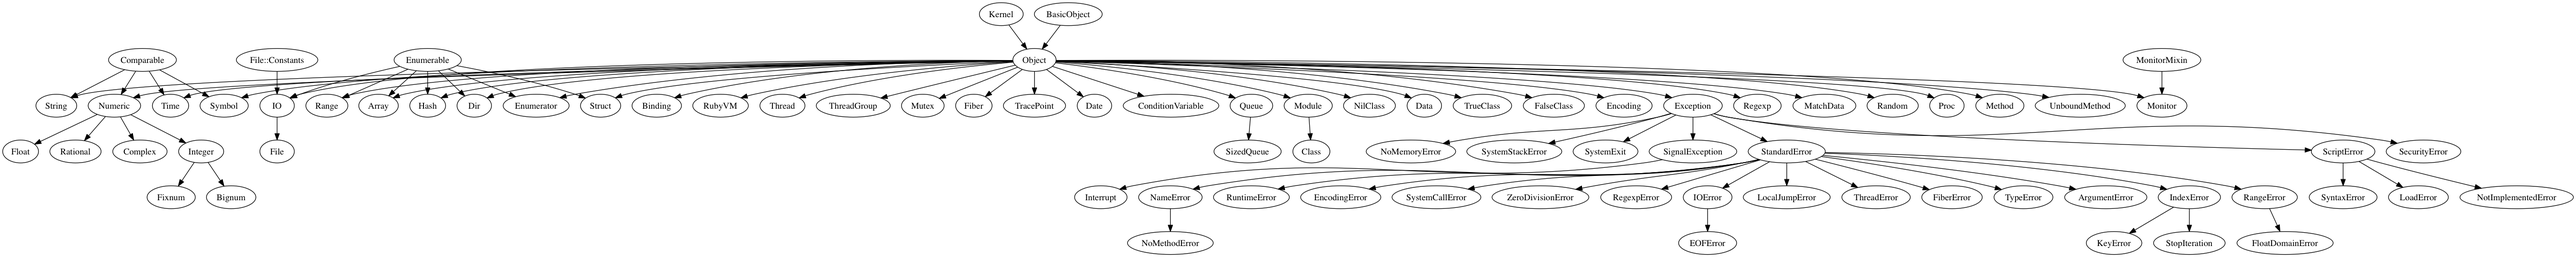
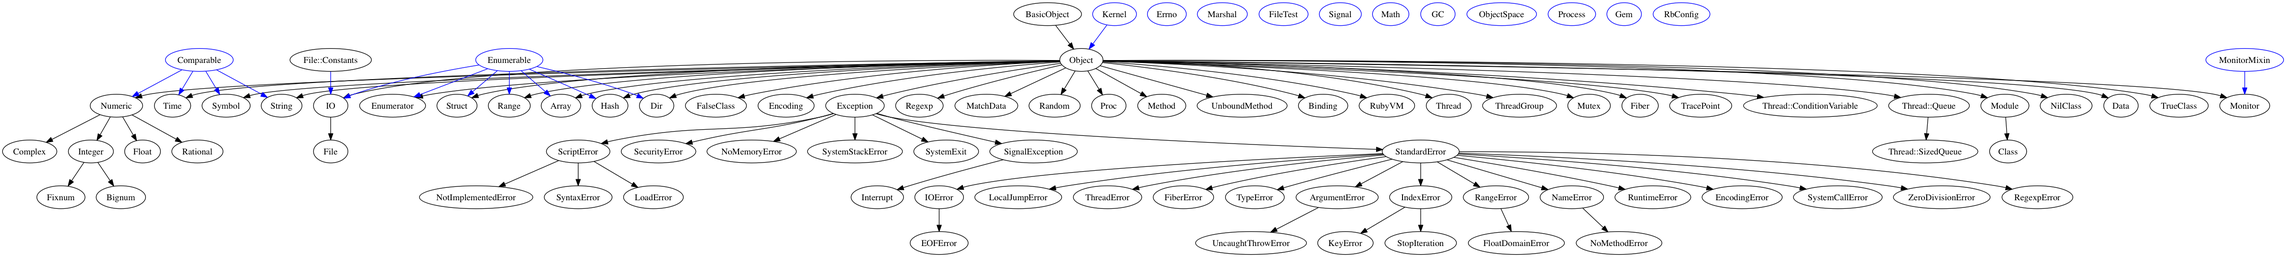
first version

diff --git a/objects.rb b/objects.rb
@@ -1,23 +1,51 @@
-constants = Object.constants
-  .map { |name| Object.const_get(name) }
-  .select { |object| object.respond_to?(:ancestors) }
-
-ancestors = {}
-
-constants.each do |object|
-  ancestors[object] = object.ancestors - [object]
+def list_objects
+  Object.constants.map { |name| Object.const_get(name) }
 end
 
-relations = []
+def try(object, method, default = nil)
+  object.respond_to?(method) ? object.send(method) : default
+end
 
-ancestors.each do |object, object_ancestors|
-  ancestors_ancestors = object_ancestors.flat_map { |ancestor| ancestors[ancestor] }
-  object_ancestors -= ancestors_ancestors
-  object_ancestors.each do |ancestor|
-    relations.push [object, ancestor]
+def describe(object)
+  desc = {
+    name: try(object, :name),
+    class: object.class.name,
+    superclass: try(object, :superclass),
+    included_modules: try(object, :included_modules, [])
+  }
+
+  desc[:included_modules] -= object.superclass.included_modules if desc[:superclass]
+
+  desc
+end
+
+def color(name)
+  {
+    'Module' => 'blue',
+    'Class' => 'black'
+  }[name] || 'green'
+end
+
+def graph(objects)
+  objects = objects.map { |object| describe object }
+
+  puts 'digraph G {'
+
+  objects.select { |o| %w(Module Class).include? o[:class] }.each do |o|
+    puts %(  "#{o[:name]}" [color=#{color o[:class]}])
   end
+
+  objects.select { |o| o[:superclass] }.each do |o|
+    puts %(  "#{o[:superclass]}" -> "#{o[:name]}" [color=#{color 'Class'}])
+  end
+
+  objects.each do |o|
+    o[:included_modules].each do |m|
+      puts %(  "#{m}" -> "#{o[:name]}" [color=#{color 'Module'}])
+    end
+  end
+
+  puts '}'
 end
 
-puts 'digraph G {'
-relations.each { |object, ancestor| puts %(  "#{ancestor}" -> "#{object}") }
-puts '}'
+graph list_objects
